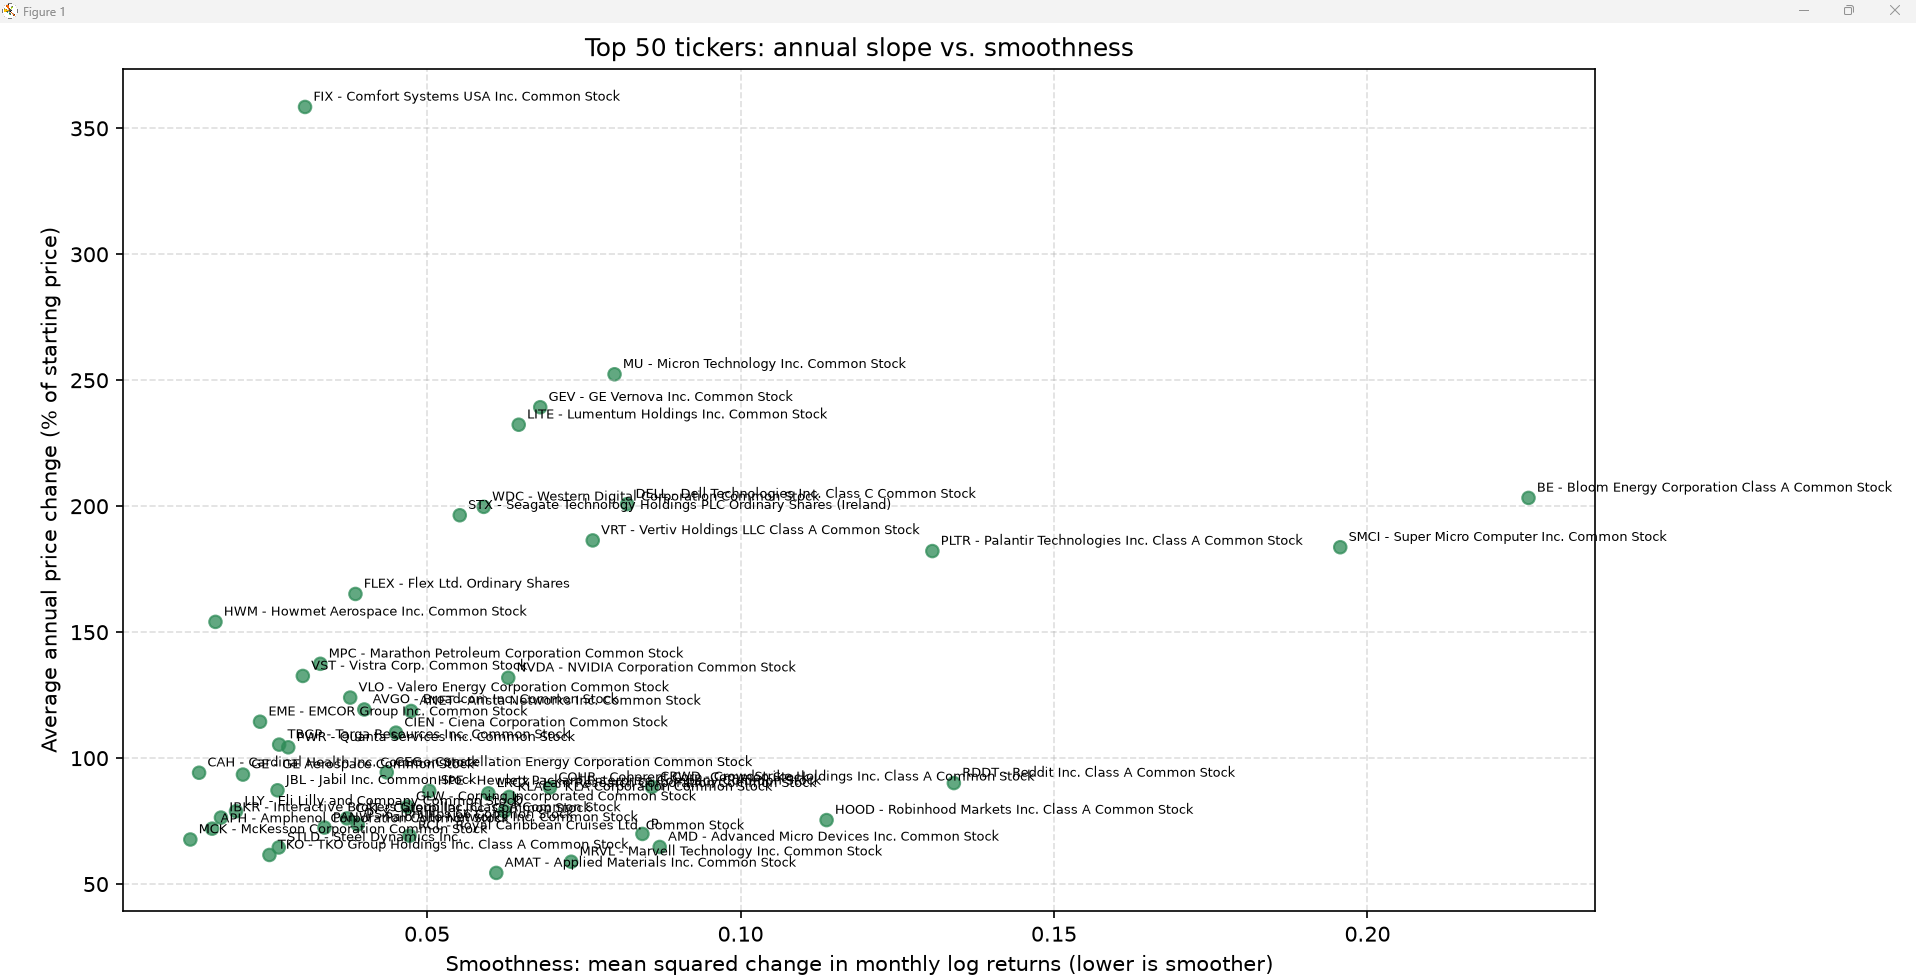
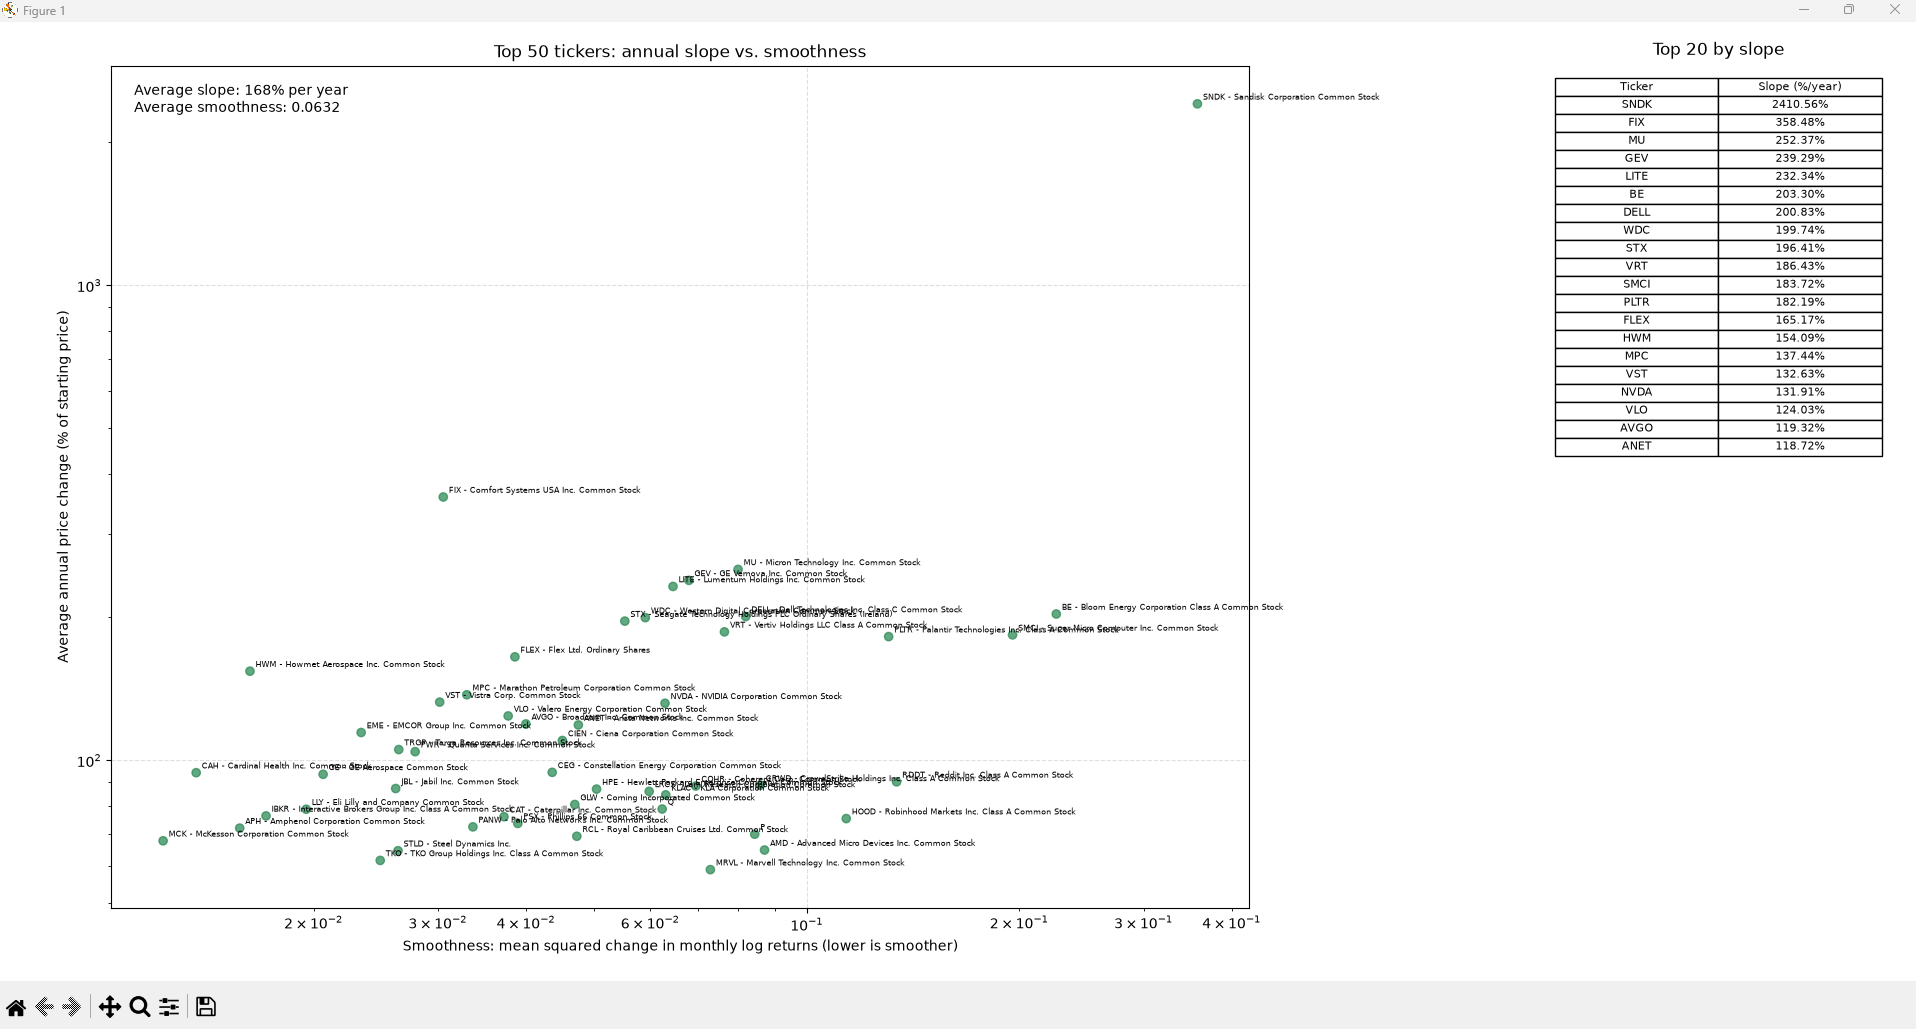
Enhance README and update visualization script for clarity and detail
- Expanded README to include detailed chart features and requirements.
- Adjusted plot dimensions and added logarithmic scales for better data representation.
- Included average slope and smoothness metrics in the chart.
- Improved table display for top 20 tickers by slope.

diff --git a/value-slope.py b/value-slope.py
@@ -68,7 +68,7 @@ slopes_df = pd.DataFrame(
   slopes,
   columns=["Ticker", "AnnualPercentageSlope", "MeanSquaredReturnChange"],
 )
-slopes_df = slopes_df.loc[slopes_df["Ticker"] != "SNDK"]
+# slopes_df = slopes_df.loc[slopes_df["Ticker"] != "SNDK"]
 slopes_df = slopes_df.sort_values(
   "AnnualPercentageSlope", ascending=False
 ).reset_index(drop=True)
@@ -100,7 +100,7 @@ slopes_df["ChartLabel"] = slopes_df.apply(
   axis=1,
 )
 
-fig, ax = plt.subplots(figsize=(18, 12), dpi=150)
+fig, ax = plt.subplots(figsize=(12, 8), dpi=100)
 colors = [
   "seagreen" if slope >= 0 else "indianred"
   for slope in slopes_df["AnnualPercentageSlope"]
@@ -121,9 +121,35 @@ for row in slopes_df.itertuples(index=False):
   )
 ax.set_xlabel("Smoothness: mean squared change in monthly log returns (lower is smoother)")
 ax.set_ylabel("Average annual price change (% of starting price)")
+ax.set_xscale("log")
+ax.set_yscale("log")
 ax.set_title(f"Top {len(slopes_df)} tickers: annual slope vs. smoothness")
+average_slope = slopes_df["AnnualPercentageSlope"].mean()
+average_smoothness = slopes_df["MeanSquaredReturnChange"].mean()
+ax.text(
+  0.02,
+  0.98,
+  f"Average slope: {average_slope:.0f}% per year\n"
+  f"Average smoothness: {average_smoothness:.4f}",
+  transform=ax.transAxes,
+  va="top",
+  bbox={"facecolor": "white", "alpha": 0.8, "edgecolor": "none"},
+)
 ax.grid(linestyle="--", alpha=0.4)
-fig.tight_layout()
+fig.tight_layout(rect=[0, 0, 0.78, 1])
+table_ax = fig.add_axes([0.81, 0.04, 0.17, 0.92])
+table_ax.axis("off")
+table_ax.set_title("Top 20 by slope", pad=4)
+top_table = table_ax.table(
+  cellText=[
+    [row.Ticker, f"{row.AnnualPercentageSlope:.2f}%"]
+    for row in slopes_df.head(20).itertuples(index=False)
+  ],
+  colLabels=["Ticker", "Slope (%/year)"],
+  cellLoc="center",
+  loc="upper center",
+)
+top_table.scale(1, 0.9)
 plt.show()
 
 # Next Steps: add P/E ratio with color green is low, red is high: https://datahub.io/core/s-and-p-500-companies-financials > contituents-financial (My Downloads)

diff --git a/README.md b/README.md
@@ -1,6 +1,13 @@
 # Value Slope
 
-This script compares annualized stock-price change with return smoothness for the top 50 tickers over the filtered five-year period. It prints the metrics and displays an XY chart; lower mean squared changes in monthly log returns indicate smoother returns.
+This script compares annualized stock-price change with return smoothness for the top 50 tickers over the filtered five-year period. It prints the metrics and displays a chart with:
+
+- Ticker and company-name labels for each plotted data point.
+- Average annual slope and average smoothness.
+- A table of the top 20 tickers ranked by annual slope.
+- Logarithmic scales for both axes, including annual price change on the vertical axis and smoothness on the horizontal axis.
+
+Lower mean squared changes in monthly log returns indicate smoother returns. 
 
 Install the required packages with:
 
@@ -14,4 +21,4 @@ Run with `python value-slope.py`.
 
 ## Next Steps
 
-Add P/E ratio with color green is low, red is high: [S&P 500 companies financials](https://datahub.io/core/s-and-p-500-companies-financials) > constituents-financial 
+Add P/E ratio with color green is low, red is high: [S&P 500 companies with financial info > Constituents Financials](https://datahub.io/core/s-and-p-500-companies-financials/_r/-/data/constituents-financials.csv)
